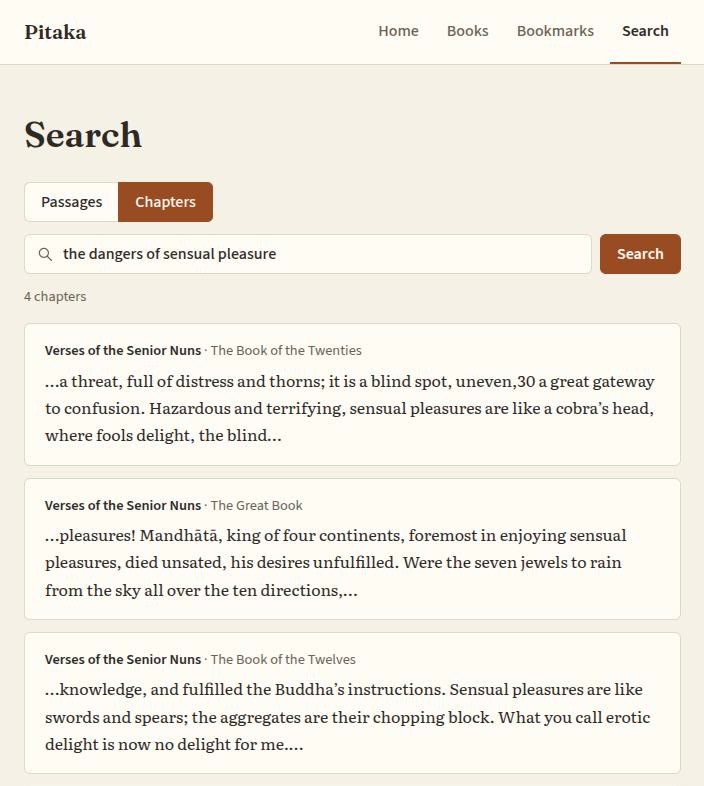
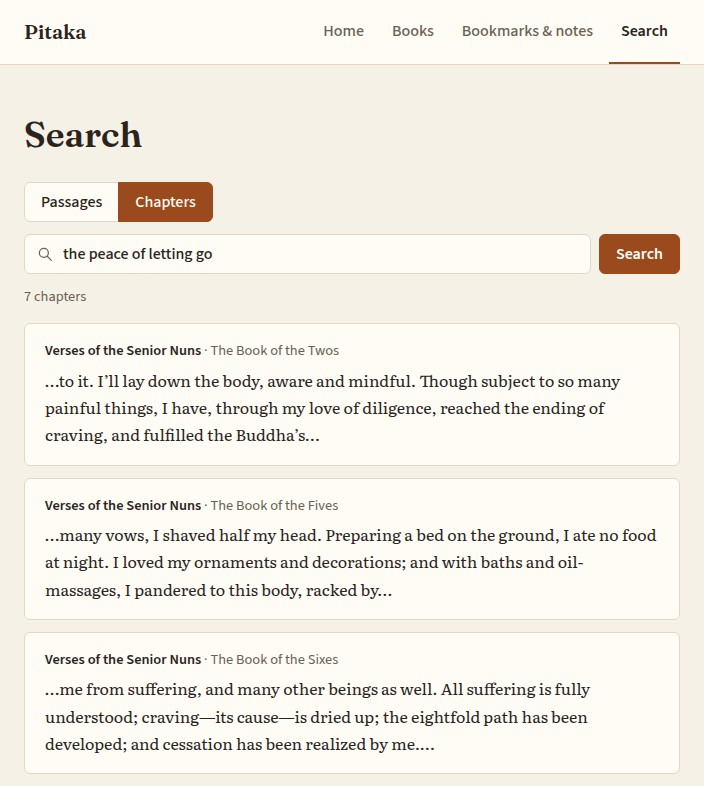
Show a gentler example search in the chapter search section
The project page's example of searching chapters by meaning was "the
dangers of sensual pleasure", which gave a first-time visitor a
needlessly prudish picture of the book and of Buddhism.

It's now "the peace of letting go", which none of the matched passages
say in those words. The screenshot is again real bge-small output over
the demo book, shown in the demo's UI through the mock, and the page
copy, alt text and README note name the new query.

diff --git a/site/index.html b/site/index.html
@@ -74,7 +74,7 @@
         <div class="copy">
           <h2>Find chapters by meaning</h2>
           <p>
-            Describe what you're looking for, like <kbd>the dangers of sensual pleasure</kbd>,
+            Describe what you're looking for, like <kbd>the peace of letting go</kbd>,
             and get the chapters that are about it, even when they don't use your words. Open
             one and the reader lands on the passage that matched.
           </p>
@@ -88,7 +88,7 @@
             The screenshot shows real results from the demo's book.
           </p>
         </div>
-        <img src="screenshots/chapter-search.jpg" alt="Chapter search for the dangers of sensual pleasure, listing four chapters of the Therīgāthā with a preview of the passage that matched" width="704" height="786" loading="lazy" />
+        <img src="screenshots/chapter-search.jpg" alt="Chapter search for the peace of letting go, listing seven chapters of the Therīgāthā with a preview of the passage that matched" width="704" height="786" loading="lazy" />
       </section>
 
       <section class="feature">

diff --git a/README.md b/README.md
@@ -494,7 +494,7 @@ alongside the old one. Neither may change. The version comes from
   Chapters switch doesn't show, and the banner and landing page say it
   needs the desktop app. The landing page's chapter-search screenshot
   (`docs/screenshots/chapter-search.jpg`) is real bge-small output for
-  "the dangers of sensual pleasure" over the demo book, from
+  "the peace of letting go" over the demo book, from
   `search_chapters` with the model, fed to the demo's UI through the mock
   with the banner removed. The new section was checked at 720px and
   1280px wide. The landing page's download links are filled in by
